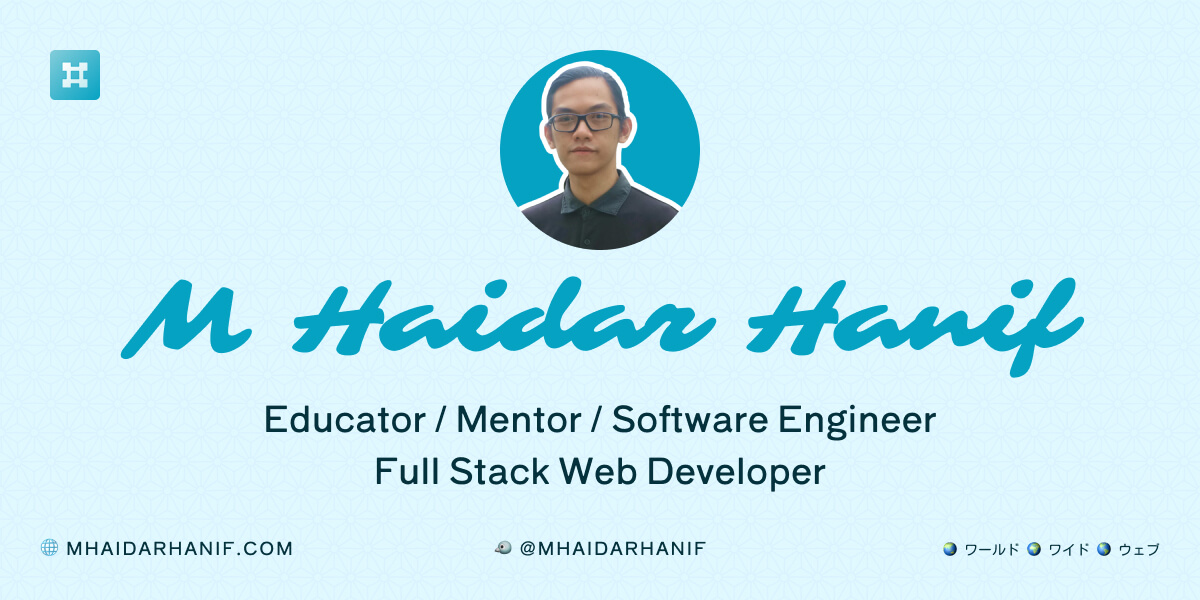
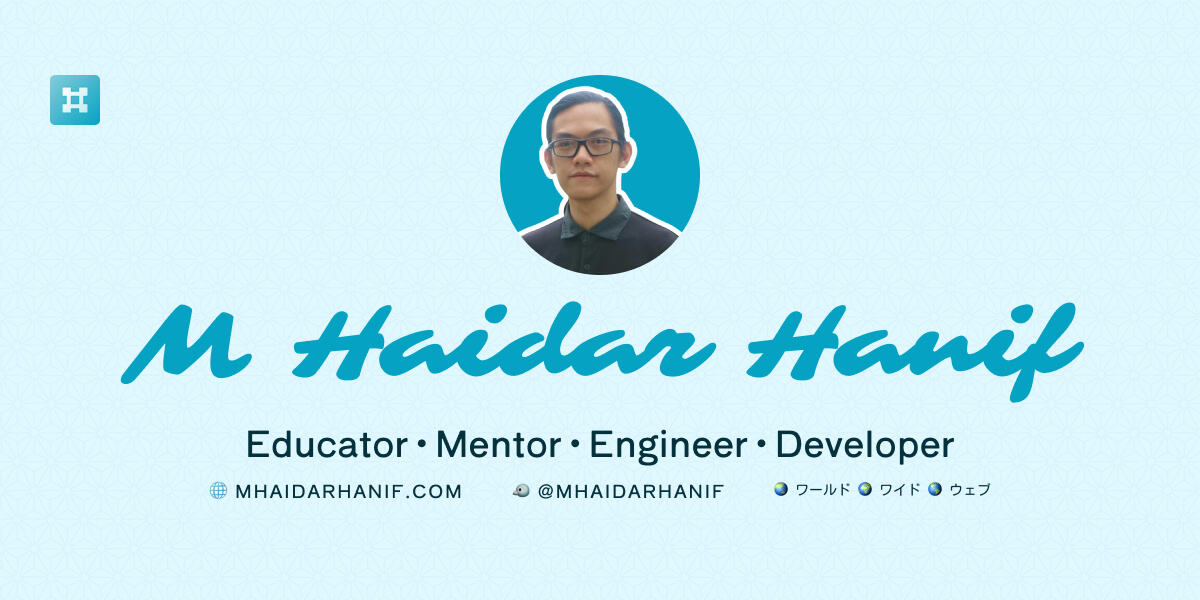
feat: new og+twitter image v3

diff --git a/app/data/meta.ts b/app/data/meta.ts
@@ -7,8 +7,8 @@ export const metaDefault = {
   route: '',
   color: '#05a2c2',
   ogImageAlt: 'Website of M Haidar Hanif',
-  ogImageUrl: 'images/mhaidarhanif-og.jpg?v=2',
-  twiterImageUrl: 'images/mhaidarhanif-twitter.jpg?v=2',
+  ogImageUrl: 'images/mhaidarhanif-og.jpg?v=3',
+  twiterImageUrl: 'images/mhaidarhanif-twitter.jpg?v=3',
   fbAppId: '221593320168071',
   locale: 'en_US',
 }
